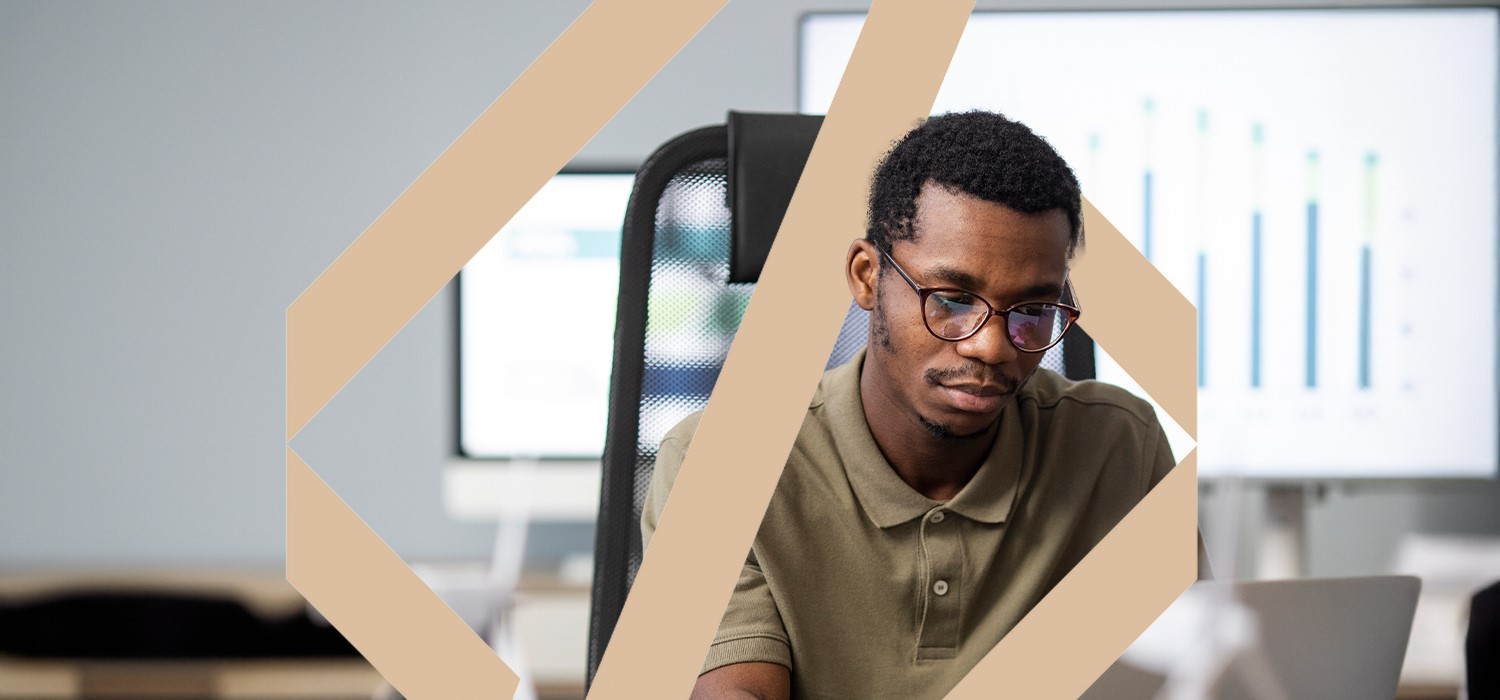
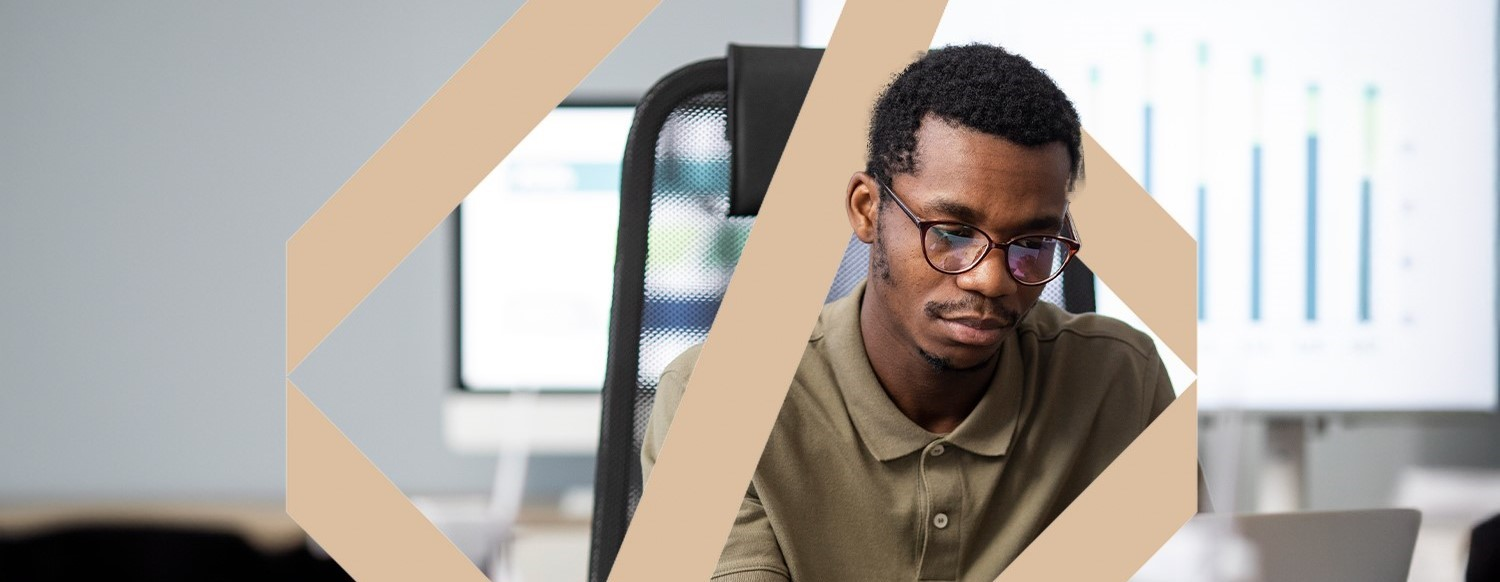
img update

diff --git a/src/taskpane/taskpane.html b/src/taskpane/taskpane.html
@@ -741,6 +741,24 @@ h3{
         <div class="settings-overlay-content">
             <div style="margin-bottom: 20px;"><span class="close-btn" id="closeOverlay"><i class="fa-solid fa-circle-xmark"></i></span></div>
                 <div class="settings-form">
+
+                        <!-- First Form -->
+                        <div class="form-wrapper">
+                            <form id="taskForm2" class="modern-form">
+                                <div class="form-group">
+                                    <img style="width: 100%; margin-bottom: 5px; border-radius: 4px;" src="https://kyalr.github.io/DomainGaurdianV2/assets/GreekBackground.png" alt="Loading..." />
+                                </div>
+                                <div class="icon-header-group">
+                                    <i style="color:#D2B08D ;" class="fa-solid fa-user-shield"></i>
+                                    <h3>Want to Learn More?</h3>
+                                </div>
+                                <div class="form-group">
+                                    <p>If you're interested in exploring additional services or have any questions, we'd love to hear from you!</p>
+                                    <a href="https://www.strategnos.com/">www.strategnos.com</a>
+                                </div>
+                            </form>
+                        </div>
+
                         <!-- First Form -->
                         <div class="form-wrapper">
                             <form id="taskForm" class="modern-form">
@@ -789,9 +807,9 @@ h3{
                                     </label>
                                 </div>
                             </form>
-                        </div>
+                        </div><br><br><br><br>
 
-                </div>
+            </div>
         </div>
     </div>
 
